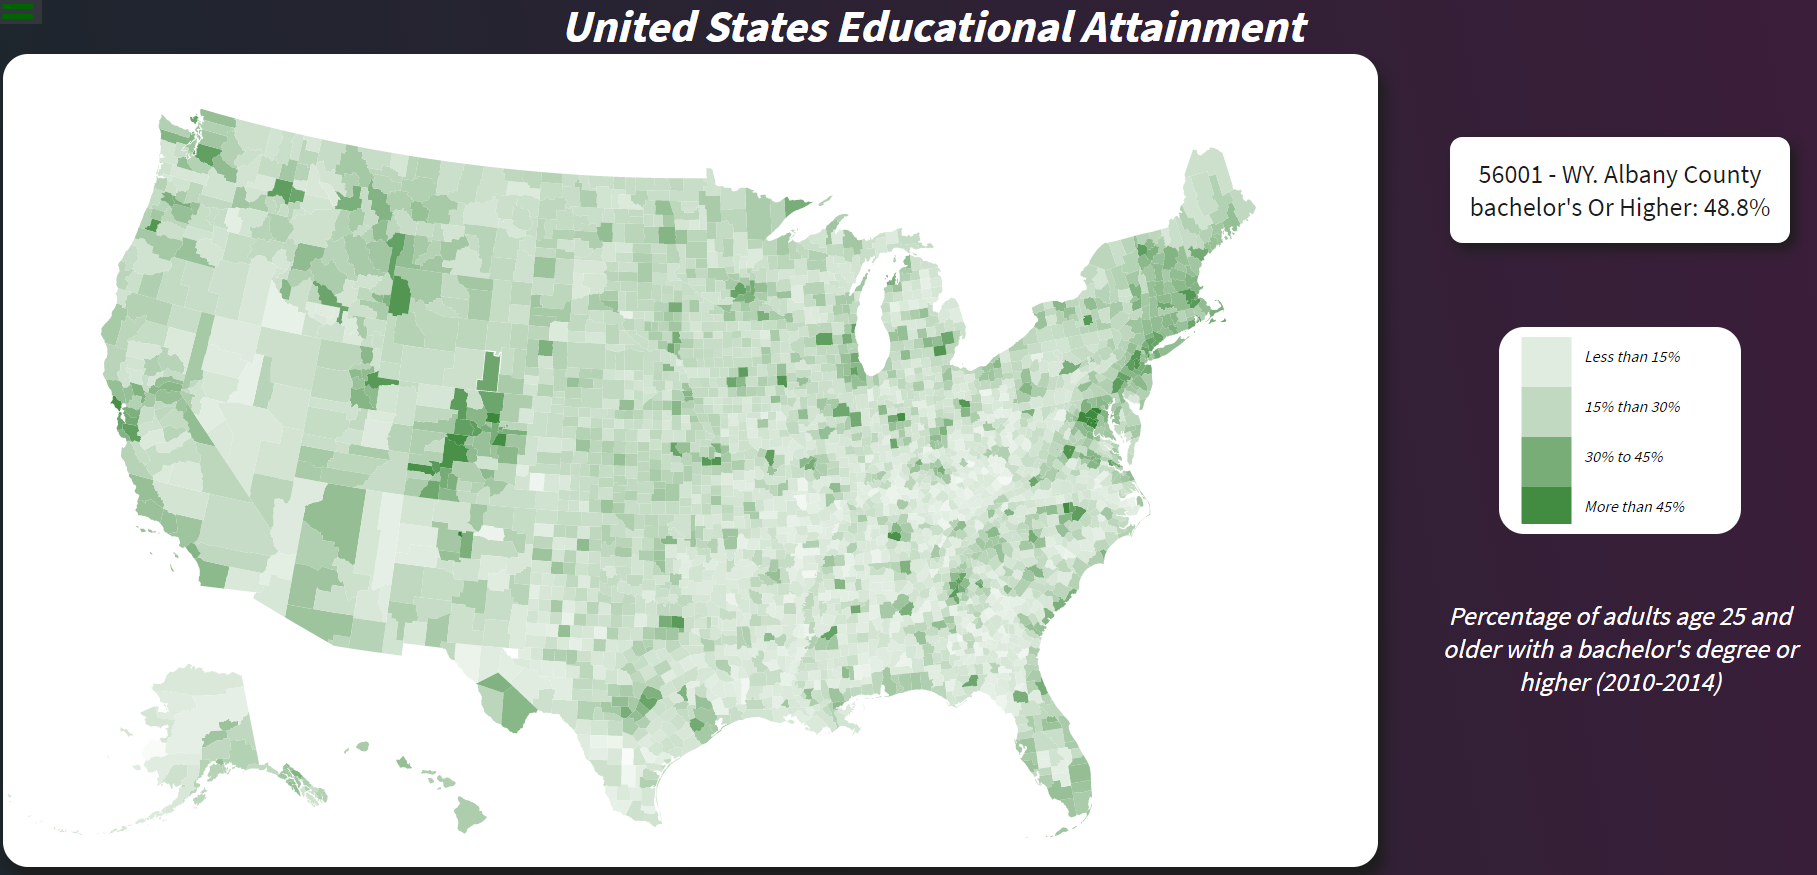
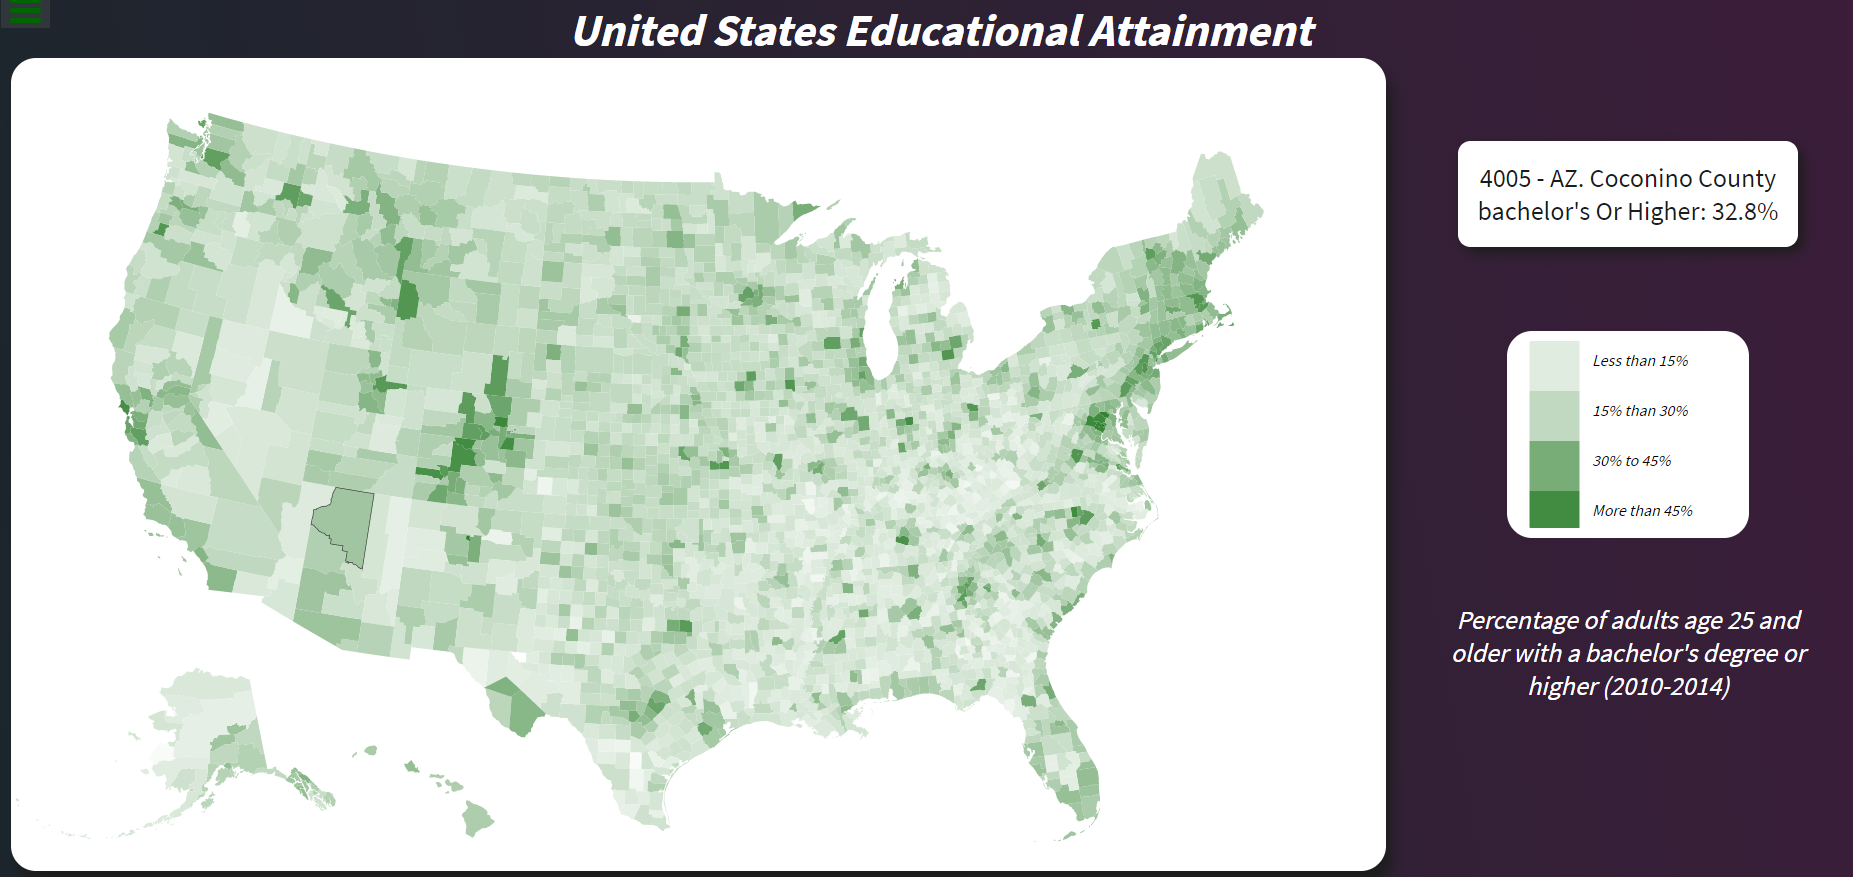
adding last styles

diff --git a/map.js b/map.js
@@ -13,8 +13,6 @@ async function drawMap(){
     //Seeting accesors functions '
 
     const countyIdAccessor = d => d.id
-    console.log(dataset)
-    console.log(countyData)
 
     let metricDataByCounty = {}
 
@@ -36,25 +34,6 @@ async function drawMap(){
             left: 60,
         },
     }
-
-    //dimensions.boundedWidth = dimensions.width - dimensions.margin.left  - dimensions.margin.right ;
-
-    ////Setting projection
-//
-    //const Rect = ({type: "Sphere"})
-//
-    //const projection = d3.geoAlbersUsa()
-    //                        .fitWidth(dimensions.boundedWidth,Rect)
-//
-    //const pathGenerator = d3.geoPath(projection)
-//
-    //const [[x0, y0], [x1, y1]] = pathGenerator.bounds(Rect)
-//
-//
-    //dimensions.boundedHeight = y1
-    //dimensions.height = dimensions.boundedHeight + dimensions.margin.top + dimensions.margin.bottom
-
-
     //3) Draw Canvas 
 
     //adding main svg 
@@ -83,51 +62,51 @@ async function drawMap(){
 
      //5) Draw Data
 
-    // const map = bounds.append("path")
-    //                        .attr("class", "earth")
-    //                        .attr("d", pathGenerator(Rect))
+    //selecting tooltip
+
+    const tooltip = d3.select('#tooltip');
+
+    //selecting legend
+    const legend = d3.select('#legend')
+
+    //selecting description
+
+    const description = d3.select('#description')
+
+    //setting transition 
+    const updateTransition = d3.transition().duration(1000);
+    
+
+
+    ////drawing counties
 
     const counties = bounds.selectAll(".county")
                                 .data(countyData)
                                 .enter().append("path")
                                 .attr("class", "county")
                                 .attr("d", d3.geoPath())
-                                .style('fill',d => {
-                                    const metricValue = metricDataByCounty[countyIdAccessor(d)]
-                                    if (typeof metricValue == "undefined") return "#e2e6e9"
-                                    return colorScale(metricValue)
-                                })
+                                .attr('fill', 'white')
                                 .attr('data-fips', d => countyIdAccessor(d))
                                 .attr('data-education', d => metricDataByCounty[countyIdAccessor(d)])
 
-
-    //selecting tooltip 
-
-    const tooltip = d3.select('#tooltip');
-
-    //setting transition 
-
-    
-
-
-    ////drawing cells
-
-    //setting cell dimensions  
-    
-
-    //addding cells
     
                             
-    //adding transition to cells
-
+    //adding transition to counties,legend,description
+    counties.transition(updateTransition)
+            .attr('fill',d => {
+                const metricValue = metricDataByCounty[countyIdAccessor(d)]
+                if (typeof metricValue == "undefined") return "#e2e6e9"
+                return colorScale(metricValue)
+            }) 
     
-
-    //6)Draw Peripherals
-
-    //settup legend
-
-
-    //7) Set up Interactions
+    
+    description.transition(updateTransition)
+                        .style('opacity','1')
+    
+    
+    legend.transition(updateTransition)
+        .style('opacity','1')
+    
 
     //7) Set up Interactions
 

diff --git a/style.css b/style.css
@@ -26,7 +26,7 @@ header{
     color: white;
     font-size: 1.5rem;
 }
-/*Wrapper SVG*/
+/*Wrapper Container*/
 #wrapper{
     display: grid;
     grid-template-areas: 
@@ -35,6 +35,7 @@ header{
     "map description";
     grid-template-rows: repeat(3,1fr);
 }
+/*Svg Container*/
 #canvas{
     grid-area: map;
 }
@@ -46,10 +47,11 @@ header{
     min-height: 650px;
 }
 svg .county:hover{
-    stroke: white ;
+    stroke: #1c1c1c ;
     stroke-width: 1px;
     opacity: .9;
 }
+/*Tooltip styles*/
 #tooltip{
     grid-area: tooltip;
     width: 50%;
@@ -67,7 +69,7 @@ svg .county:hover{
     padding: 1rem;
     border-radius: 10px;
     box-shadow: 5px 5px 10px #1c1c1c;
-    opacity: 1;
+    opacity: 0;
     pointer-events: none;
     transition: opacity .2s ease ;
 }
@@ -86,9 +88,8 @@ svg .county:hover{
     padding: .5rem;
     background-color: white;
     border-radius:20px ;
-}
-#legend .rect{
-    stroke: #1b262c;
+    opacity: 0;
+    transition: opacity .2s ease ;
 }
 #description{
     grid-area: description;
@@ -99,6 +100,8 @@ svg .county:hover{
     text-align: center;
     font-style: italic;
     font-size: 1.3rem;
+    opacity: 0;
+    transition: opacity .2s ease ;
 }
 /*Footer*/
 footer{
